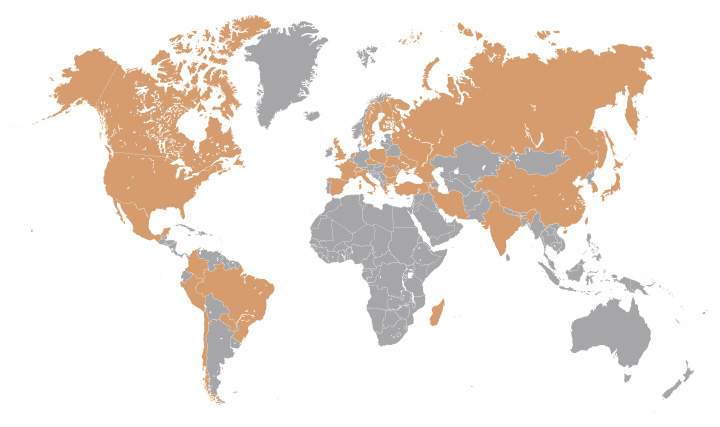
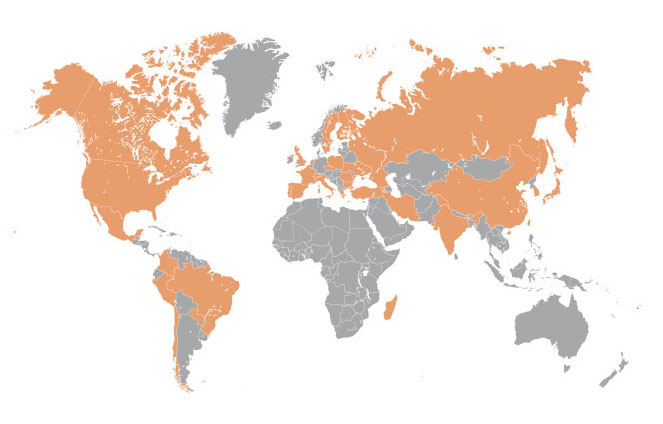
intros to sp dp pds and new global figure

diff --git a/far-detector-single-phase/chapter-fdsp-photon-det/pds-overview.tex b/far-detector-single-phase/chapter-fdsp-photon-det/pds-overview.tex
@@ -9,8 +9,7 @@
 \label{sec:fdsp-pd-intro}
 
 
-The \dword{pds} is an essential subsystem of a DUNE \dword{spmod}. The detection of the prompt scintillation light signal, emitted in coincidence with an ionizing event inside the active volume, allows the determination of the time of occurrence of an event of interest with much higher precision than charge collected from ionization in the TPC. This capability is most critical for the primary DUNE science objectives that are uncorrelated with the timing signal from the neutrino source at Fermilab, such as proton decay and neutrinos from a \dword{snb}, %supernova burst, 
-and for the ancillary science program including measurements of neutrino oscillation phenomena using atmospheric neutrinos.
+The \dword{pds} is an essential subsystem of a DUNE \dword{spmod}. The detection of the prompt scintillation light signal, emitted in coincidence with an ionizing event inside the active volume, allows the determination of the time of occurrence of an event of interest with much higher precision than charge collected from ionization in the TPC. This capability is most critical for the primary DUNE science objectives that are uncorrelated with the timing signal from the neutrino source at \fnal, such as proton decay and neutrinos from a \dword{snb}, and for the ancillary science program including measurements of neutrino oscillation phenomena using atmospheric neutrinos. A number of scientific and technical issues impact the \single and \dual \dword{pds} in a similar way, and the consortia for these two systems cooperate closely. See \voltitledpfd{}, Chapter~5.
 
 Timing information from the \dword{pd} and TPC systems allows determination of the drift time of the ionizing particles. Knowledge of the drift time provides localization of the event inside the active volume and provides the ability to correct the measured charge for effects that depend on the drift path length, purity of \lar, or for specific locations in the detector if there are non-uniformities.  This correction is important for the reconstruction of the energy deposited by the ionizing event. In addition to allowing optimum track reconstruction, scintillation light measured by the system may also be used as a trigger and for improved calorimetric measurement in combination with charge measurement.
 
@@ -71,7 +70,7 @@ Parameter  					& Value \\ \toprowrule
   							& \SI{1}{pe/MeV} for events at the center of the TPC and no less than \SI{0.5}{pe/MeV}  at all points in the fiducial volume. \\ \colhline
 (Proposed) Minimum detector response per MeV energy deposition (Light Yield).
   							& \SI{10}{pe/MeV} for events at the center of the TPC and no less than \SI{5}{pe/MeV}  at all points in the fiducial volume. \\ \colhline
-Minimum requirements on energy deposition, spatial separation, and temporal separation from other events, for which the system must associate a unique event time (\textit{ flash matching}). 
+Minimum requirements on energy deposition, spatial separation, and temporal separation from other events, for which the system must associate a unique event time (\textit{flash matching}). 
 							& \SI{10}{MeV}, \SI{1}{m}, \SI{1}{ms}  respectively. \\
 \end{dunetable}
 

diff --git a/far-detector-dual-phase/chapter-fddp-photon-det.tex b/far-detector-dual-phase/chapter-fddp-photon-det.tex
@@ -9,8 +9,10 @@
 \subsection{Introduction}
 \label{sec:fddp-pd-1.1}
 
-The \dword{dp} \dword{pds} is used primarily as decision to acquire the event (trigger) for non-beam events, for determination of the event absolute time for beam and non-beam events, and for calorimetric measurements. It is essential to ensure that the \dual \dword{pds} is optimized for the full DUNE physics program. In particular, low-energy signals like \dword{snb} neutrinos and multi-messenger astronomy, other low-energy signals, and proton decay, will have more stringent requirements on \dword{pds} performance than the primarily higher energy, beam-synchronous, neutrino oscillation physics. The final specifications of the system will be determined in order to achieve these physics requirements. 
-A number of scientific and technical issues impact the \dual \dword{pds}  and \single \dword{pds}  in a similar way, and the consortia for these two systems cooperate closely.  See \voltitlespfd{}, Chapter 6 for details on the \single \dword{pds}.
+The \dword{dp} \dword{pds} primarily serves three purposes. It provides the trigger for non-beam events; it enables determination of the event absolute time for beam and non-beam events; and it enables calorimetric measurements. 
+%The \dword{dp} \dword{pds} is used primarily as decision to acquire the event (trigger) for non-beam events, for determination of the event absolute time for beam and non-beam events, and for calorimetric measurements. 
+It is essential to ensure that the \dual \dword{pds} is optimized for the full DUNE physics program. In particular, low-energy signals like \dword{snb} neutrinos and multi-messenger astronomy, other low-energy signals, and proton decay, will have more stringent requirements on \dword{pds} performance than the primarily higher energy, beam-synchronous, neutrino oscillation physics. The final specifications of the system will be determined in order to achieve these physics requirements. 
+A number of scientific and technical issues impact the \dual \dword{pds}  and \single \dword{pds}  in a similar way, and the consortia for these two systems cooperate closely.  See \voltitlespfd{}, Chapter 5 for details on the \single \dword{pds}.
 
 This %Technical Proposal
  chapter concentrates on direct projection of the \dword{pddp} design to the DUNE scale. The optimization and final design of the \dual \dword{pds} is driven by the \dword{pddp} \cite{protoDUNDP-tdr} data and simulation studies.
